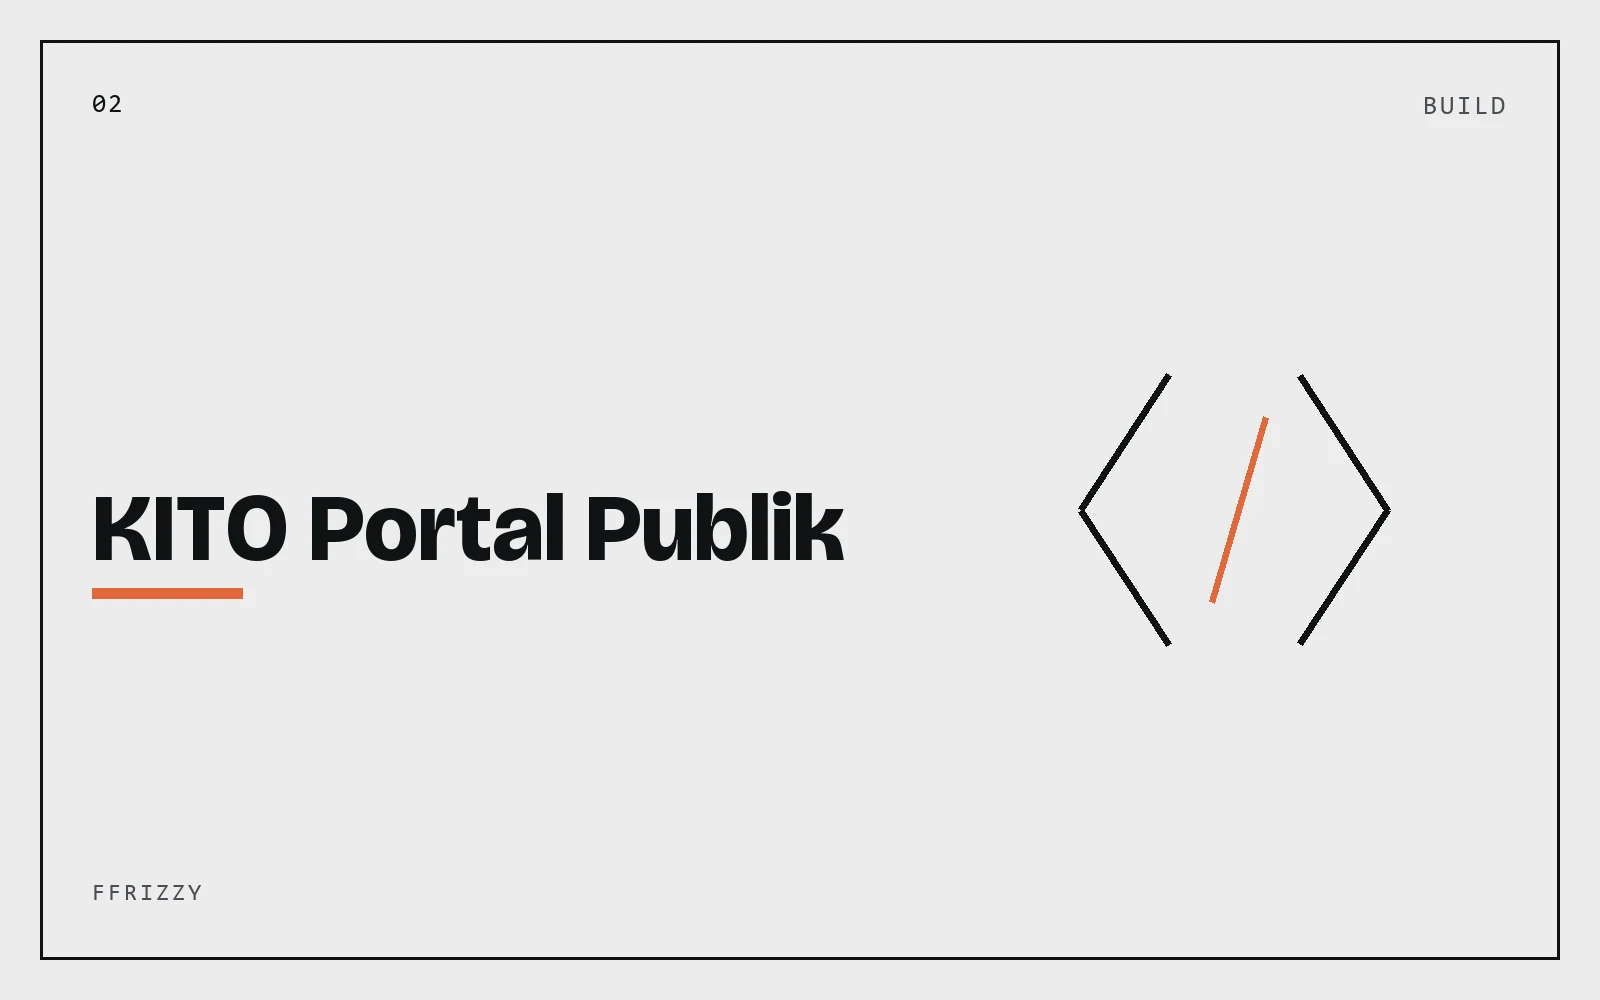
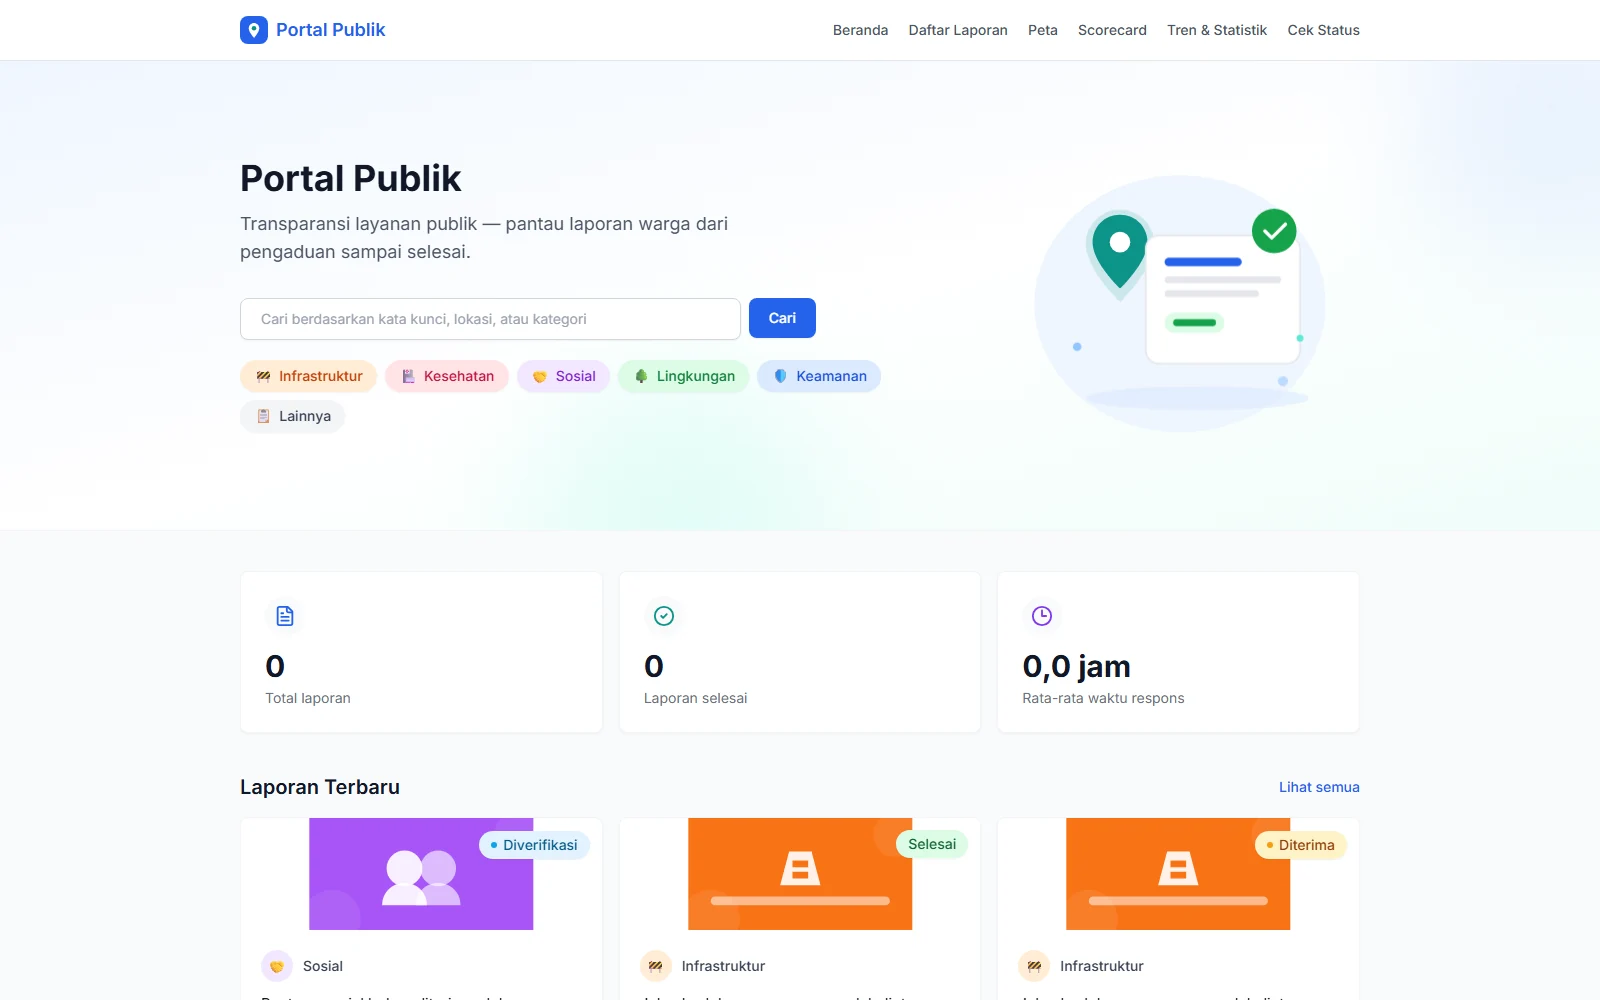
Add the Portal Publik captures and make the gallery read extras from disk
Portal Publik was captured from its running dev server, both the front page and the agency scorecard, which carries real figures where the front page shows an empty database. The case study gallery now reads <slug>-2.webp and <slug>-3.webp off disk instead of hardcoding pending frames, so a screenshot dropped in appears with no code change and a missing one stays an honest labelled frame. While adding it I dropped the cover slot from the gallery and caught it by checking the rendered HTML, which showed the cover gone from every case study; it is restored. Separately, the portal's /peta route never finishes loading: still showing its Memuat peta placeholder after 60 seconds with no Leaflet container, no tiles, and no JavaScript error.

diff --git a/src/components/work/CaseStudyLayout.tsx b/src/components/work/CaseStudyLayout.tsx
@@ -1,3 +1,6 @@
+import { existsSync } from "node:fs";
+import path from "node:path";
+
 import { Icon } from "@/components/shared/Icon";
 import { CoverImage } from "@/components/shared/CoverImage";
 import { PendingImage } from "@/components/shared/PendingImage";
@@ -9,6 +12,17 @@ import { TagChip } from "@/components/ui/Chip";
 import type { Project } from "@/content/schema";
 import { ANALYTICS_EVENTS } from "@/lib/analytics";
 import { LAYOUT } from "@/lib/constants";
+
+/**
+ * Whether an extra gallery shot is actually on disk.
+ *
+ * The route is dynamic, so reading the filesystem here is safe, and it is what
+ * lets the gallery show a real screenshot when one exists without inventing a
+ * filename that would 404.
+ */
+function galleryAssetExists(src: string): boolean {
+  return existsSync(path.join(process.cwd(), "public", src));
+}
 
 /**
  * Spec 5.1 case study template. Every section is optional in the data, so a
@@ -118,9 +132,7 @@ export function CaseStudyLayout({ project, next }: { project: Project; next: Pro
         <Reveal className="mt-16">
           <h2 className="text-xl md:text-2xl">Gallery</h2>
           <div className="mt-5 flex snap-x snap-mandatory gap-5 overflow-x-auto pb-4">
-            {/* The cover is real artwork now. The two slots after it stay honest
-                pending frames, because a gallery needs more than one image and
-                inventing filenames that do not exist would 404. */}
+            {/* The cover always leads the row. */}
             <div className="relative aspect-[16/10] w-[min(85vw,520px)] shrink-0 snap-start border border-line">
               <CoverImage
                 src={project.cover}
@@ -128,16 +140,34 @@ export function CaseStudyLayout({ project, next }: { project: Project; next: Pro
                 sizes="520px"
               />
             </div>
-            {[2, 3].map((slot) => (
-              <PendingImage
-                key={slot}
-                src={project.cover.replace(".webp", `-${slot}.webp`)}
-                width={1600}
-                height={1000}
-                label={`${project.title} additional screenshot ${slot}`}
-                className="w-[min(85vw,520px)] shrink-0 snap-start"
-              />
-            ))}
+            {/* Extra shots are read from disk rather than assumed. A slot shows a
+                real image the moment one is dropped at <slug>-2.webp or
+                <slug>-3.webp, and stays an honest pending frame until then,
+                instead of 404ing or being hardcoded as empty. */}
+            {[2, 3].map((slot) => {
+              const src = project.cover.replace(".webp", `-${slot}.webp`);
+              return galleryAssetExists(src) ? (
+                <div
+                  key={slot}
+                  className="relative aspect-[16/10] w-[min(85vw,520px)] shrink-0 snap-start border border-line"
+                >
+                  <CoverImage
+                    src={src}
+                    alt={`${project.title} screenshot ${slot}`}
+                    sizes="520px"
+                  />
+                </div>
+              ) : (
+                <PendingImage
+                  key={slot}
+                  src={src}
+                  width={1600}
+                  height={1000}
+                  label={`${project.title} additional screenshot ${slot}`}
+                  className="w-[min(85vw,520px)] shrink-0 snap-start"
+                />
+              );
+            })}
           </div>
         </Reveal>
 
